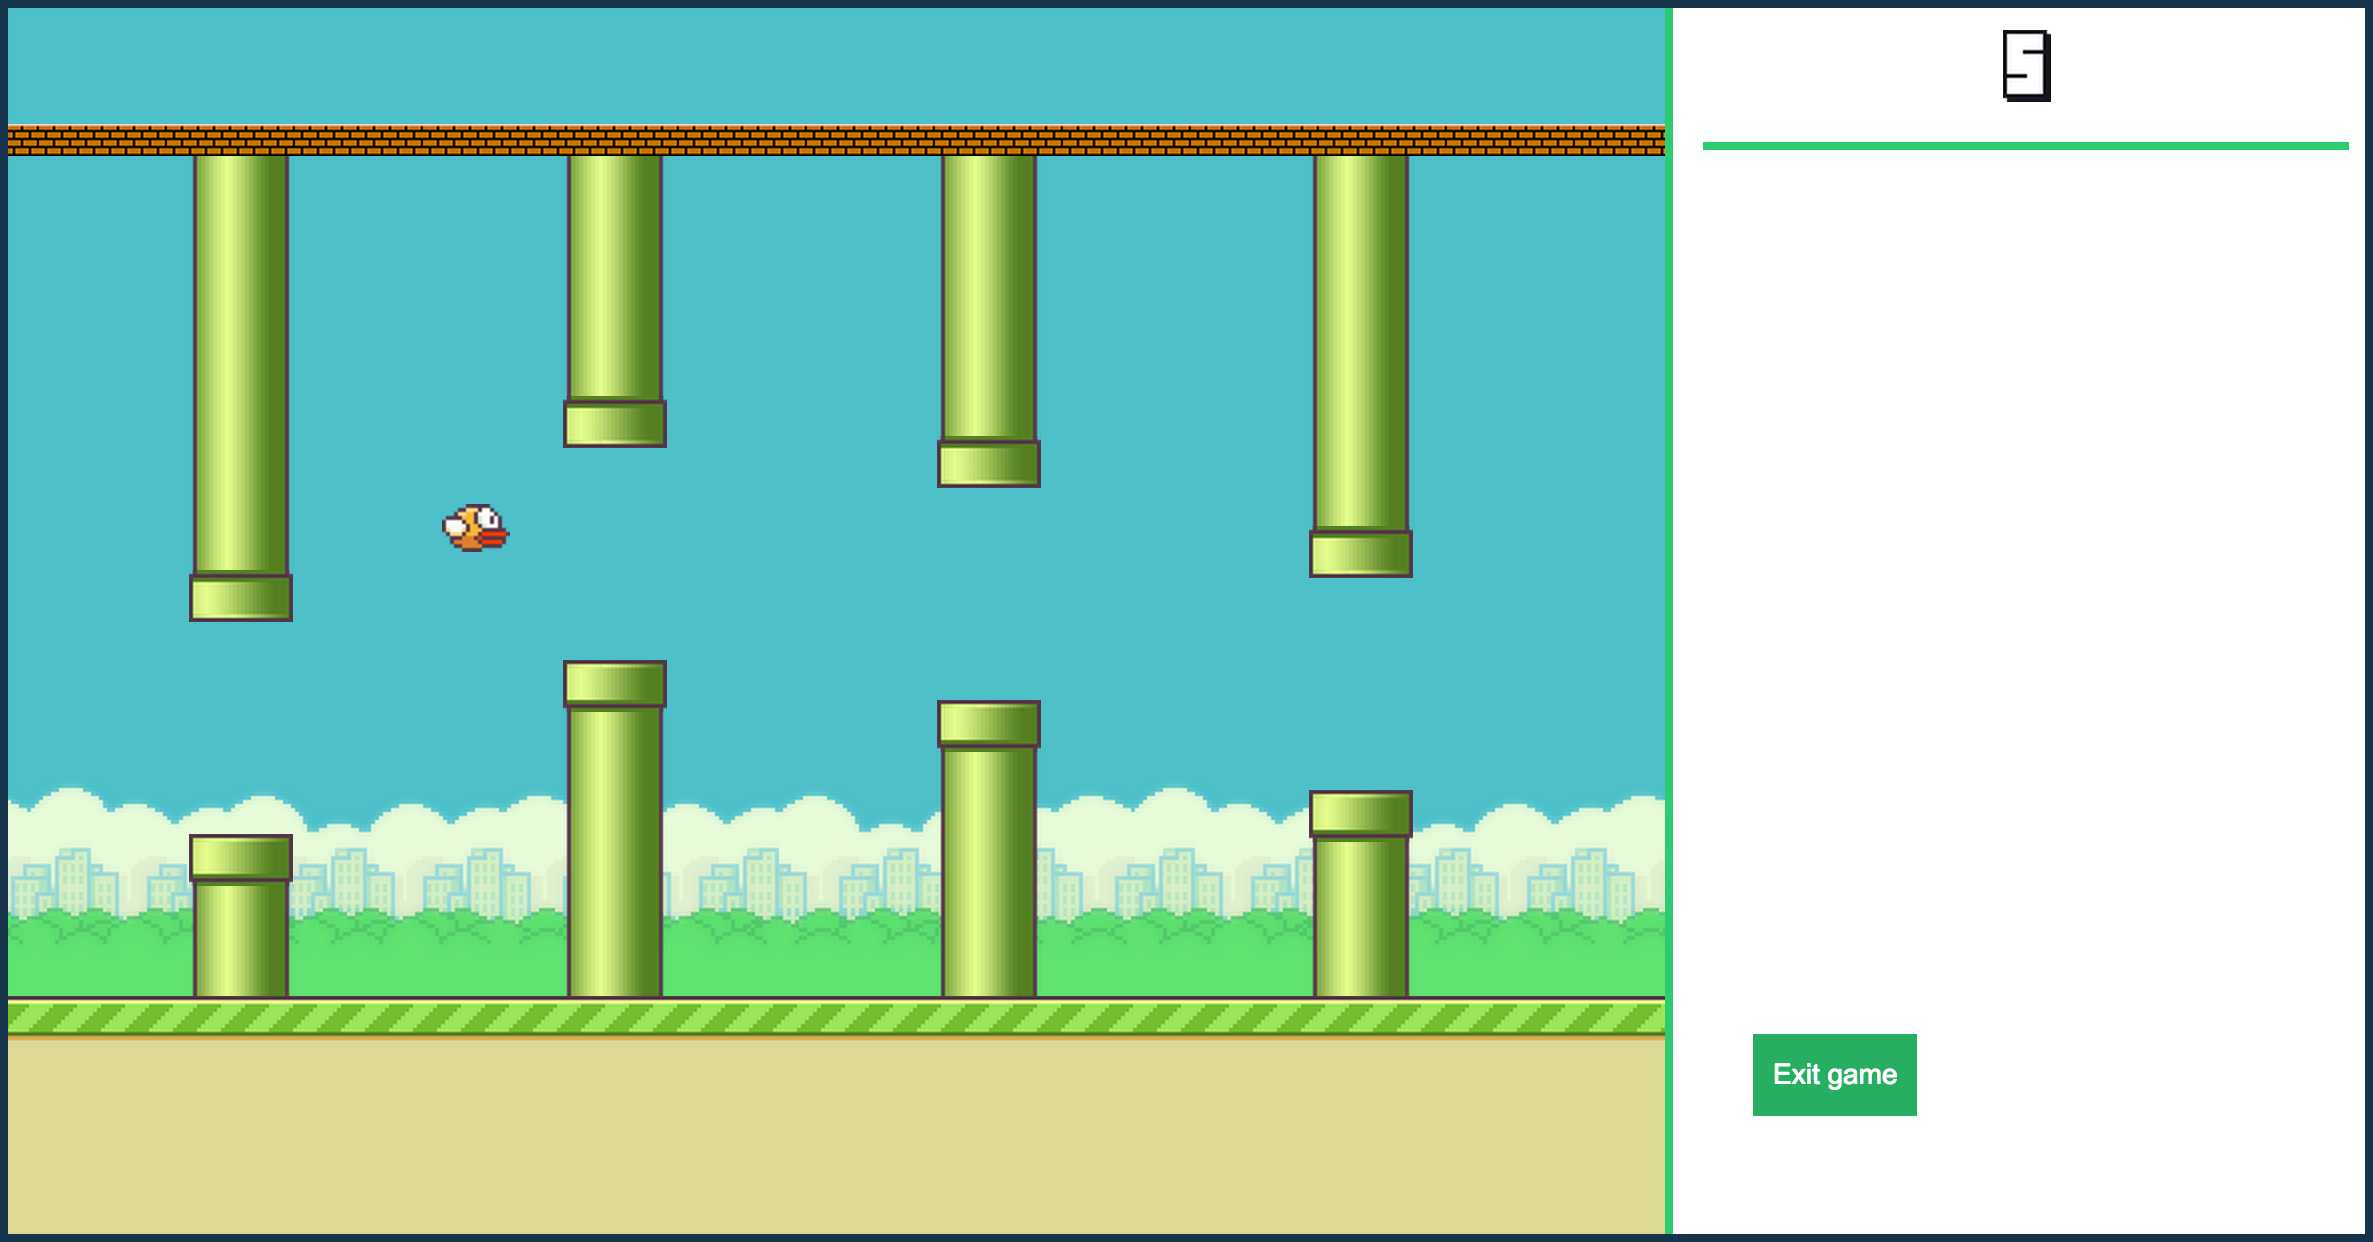
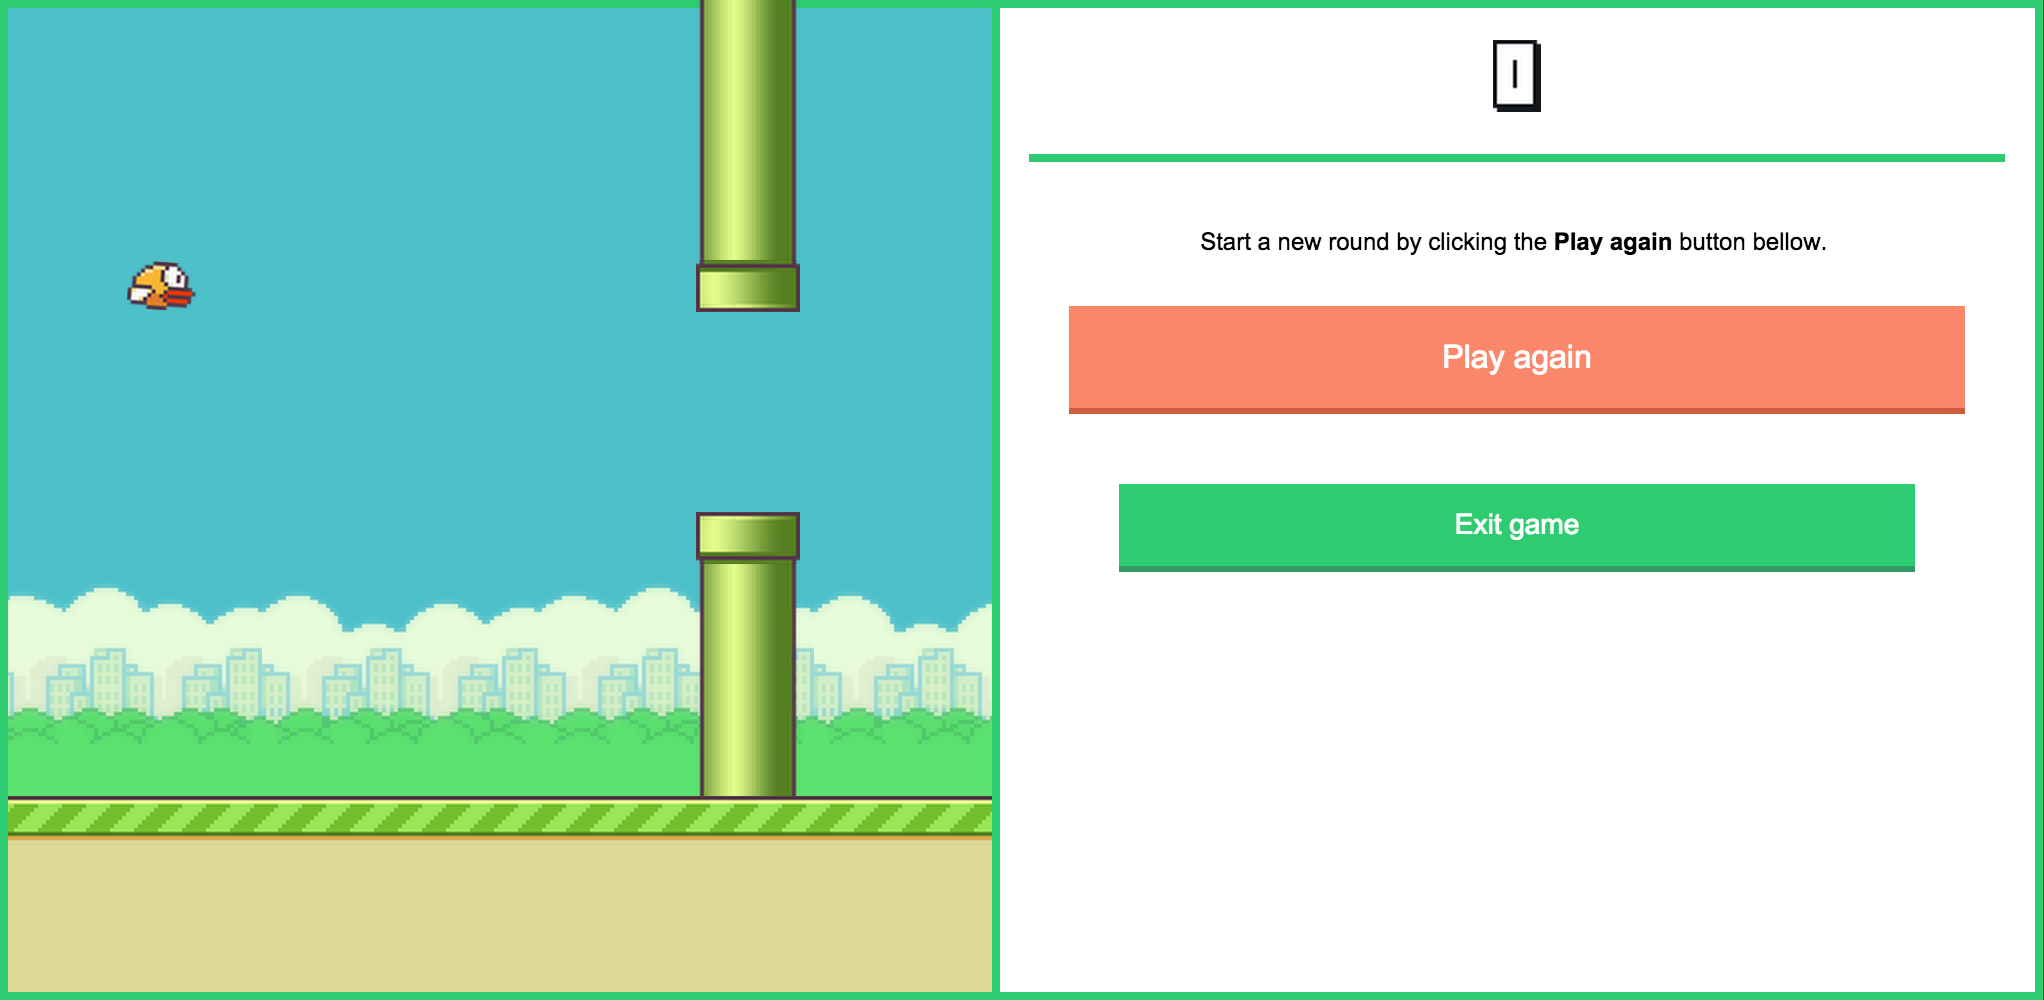
thursday work

diff --git a/tips.html b/tips.html
@@ -3,35 +3,40 @@
   <link href="css/reset.css" rel="stylesheet">
   <link href="css/main.css" rel="stylesheet">
 </head>
-
 <body id="nogame">
   <div class="container">
+    <h1>You are joining a community of Flappy Bird players! Welcome!</h1>
+    <h2>Your scores will serve as comparison for other members to improve everyone's gaming skills.</h2>
+    <hr/>
     <div class="row">
       <div class="col">
-        <h1>Welcome!</h1>
-        <p>You are joining a <b>group of Flappy Bird players</b>!</p>
-        <p>We hope you enjoy the game and have fun while guiding our friend Flappy Bird through the pipes without crashing into them or letting the Flappy Bird fall on the ground!</p>
-        <h2>Example screens</h2>
-        <img src="assets/interface1.png" width="80%">
-        <br/>
-        <img src="assets/interface2.png" width="80%">
+        <p>We hope you have fun while guiding our friend Flappy Bird through the pipes <b>without crashing into them or letting the Flappy Bird fall on the ground</b>.</p>
+        <p>You can see an example screen on the right.</p>
+        <p>In the game screen, you can see the bird and the pipes on the <b>left</b>. The score and other game controls appear on the <b>white region</b>.</p>
       </div>
       <div class="col">
-        <h1>Tips</h1>
-        <p>You can start new rounds by clicking the red "Restart game" button.</p>
-        <img src="assets/bt-restart.png" class="example">
-        <br/>
-        <p>You can play as many rounds you want and can stop at any time clicking the green "Exit game" button.</p>
-        <img src="assets/bt-exit.png" class="example">
-        <br/>
-        <p>To fly higher (i.e., flap your wings), press the spacebar.</p>
-        <img src="assets/presplash.png" class="example">
-        <br/>
-        <div style="text-align: right">
-          <a href="index.html" id="exitbt" style="cursor: pointer">Start the game!</a>
-        </div>
+        <img src="assets/interface1.png" width="95%">
       </div>
     </div>
+    <br/>
+    <hr/ style="visibility: hidden">
+    <br/>
+    <h1>Controls</h1>
+    <div class="row box">
+      <p><b>1.</b> After each round, you can start a new one by clicking the red "Play again" button.</p>
+        <img src="assets/bt-restart.png" width="35%">
+    </div>
+    <div class="row box">
+        <p><b>2.</b> You can leave the game by clicking the green "Exit game" button.</p>
+        <img src="assets/bt-exit.png" width="35%">
+    </div>
+    <div class="row box">
+        <p><b>3.</b> To fly higher (i.e., flap your wings), press the spacebar.
+          <br/>
+          Spacebar is also the key you want to press to start each round.</p>
+        <img src="assets/presplash.png">
+    </div>
+    <a href="index.html" id="exitbt" style="cursor: pointer">Start the game!</a>
   </div>
 </body>
 </html>

diff --git a/js/main.js b/js/main.js
@@ -33,13 +33,13 @@ var velocity = 20;
 var position = 100;
 var rotation = 20;
 var jump = -3.3;
-var pipeheight = 100; // not sure but I think it's variability of the gap position
-var pipewidth = 40; //pipes gap opening
+var pipeheight = 100;     // not sure but I think it's variability of the gap position
+var pipewidth = 40;       // pipes gap opening size
 var pipes = new Array();
 var replayclickable = false;
 
 //sounds
-var volume = 10;
+var volume = 2;
 var soundJump = new buzz.sound("assets/sounds/sfx_wing.ogg");
 var soundScore = new buzz.sound("assets/sounds/sfx_point.ogg");
 var soundHit = new buzz.sound("assets/sounds/sfx_hit.ogg");
@@ -99,10 +99,6 @@ function showSplash()
 {
    currentstate = states.SplashScreen;
 
-   //setting cookies
-   setCookie( "user_id", user_id, 999 );
-   setCookie( "condition", condition, 999 );
-
    //set the defaults (again)
    velocity = 0;
    position = 180;
@@ -124,7 +120,10 @@ function showSplash()
    $(".animated").css('-webkit-animation-play-state', 'running');
 
    //fade in the splash
-   $("#splash").transition({ opacity: 1 }, 2000, 'ease');
+   $("#splash").transition({ opacity: 1 }, 1000, 'ease');
+
+   //fade out exit
+   $("#forward").transition({ opacity: 0 }, 0, 'ease');
 }
 
 function startGame()
@@ -146,9 +145,9 @@ function startGame()
    }
 
    //start up our loops
-   var updaterate = 1000.0 / 60.0 ; //60 times a second
+   var updaterate = 1000.0 / 60.0 ;                   //60 times a second
    loopGameloop = setInterval(gameloop, updaterate);
-   loopPipeloop = setInterval(updatePipes, 1400);
+   loopPipeloop = setInterval(updatePipes, 1400);     //distance between pipes
 
    //jump from the start!
    playerJump();
@@ -244,7 +243,6 @@ function gameloop() {
          return;
       }
    }
-
 
    //have we passed the imminent danger?
    if(boxleft > piperight)
@@ -453,6 +451,12 @@ function showScore()
             soundSwoosh.play();
          });
     }
+
+        // show the exit button and make it clickable
+        $("#forward").transition({ opacity: 1 }, 600, 'ease');
+
+        // exit actions
+
         //show the replay button and make it clickable
         $("#replay").transition({ y: '0px', opacity: 1}, 600, 'ease');
            replayclickable = true;
@@ -516,10 +520,16 @@ $("#experience").click(function() {
 });
 
 //I'm done with the game, take me to the final survey!
+
 $("#forward").click(function() {
-   end_reflect = new Date();
-   sendscore();
-   window.location.href = "./post.html?user_id="+user_id+"&condition="+condition;
+  if(currentstate == states.ScoreScreen) {
+    end_reflect = new Date();
+    sendscore();
+    window.location.href = "./post.html?user_id="+user_id+"&condition="+condition;
+  }
+  else{
+    //nothing
+  }
 });
 
 function sendscore() {

diff --git a/index.html b/index.html
@@ -16,7 +16,7 @@
        <div class="modal-dialog">
          <div class="modal-content">
            <div class="modal-header">
-             <h4 class="modal-title" id="myModalLabel">Please select your level of Flappy Bird gaming experience:</h4>
+             <h4 class="modal-title" id="myModalLabel">Please select your general video gaming experience level:</h4>
            </div>
            <div class="modal-body">
             <form id="myForm">
@@ -26,35 +26,35 @@
                   <th>
                     <label class="radio-inline text-center">
                       <input type="radio" name="inlineRadioOptions" id="inlineRadio1" value="1">
-                      <br/>Zero experience
+                      <br/>I never play video games
                     </label>
                   </th>
                   <th>
                     <label class="radio-inline text-center">
                       <input type="radio" name="inlineRadioOptions" id="inlineRadio2" value="2">
                       <br/>
-                      Some experience
+                      I rarely play video games
                     </label>
                   </th>
                   <th>
                     <label class="radio-inline text-center">
                       <input type="radio" name="inlineRadioOptions" id="inlineRadio3" value="3">
                       <br/>
-                      Moderate experience
+                      I play video games sometimes
                     </label>
                   </th>
                   <th>
                     <label class="radio-inline text-center">
                       <input type="radio" name="inlineRadioOptions" id="inlineRadio4" value="4">
                       <br/>
-                      More than average experience
+                      I play video games often
                     </label>
                   </th>
                   <th>
                     <label class="radio-inline text-center">
                       <input type="radio" name="inlineRadioOptions" id="inlineRadio5" value="5">
                       <br/>
-                      Plenty of experience
+                      I play video games all of the time
                     </label>
                   </th>
                 </tr>
@@ -86,10 +86,10 @@
         <div id="bigscore"></div>
         <hr>
         <div id="replay">
-          Start a new round by clicking the <b>Restart game</b> button bellow.
+          Start a new round by clicking the <b>Play again</b> button bellow.
           <br/>
           <br/>
-          <a href="#" id="restartbt">Restart game</a>
+          <a href="#" id="restartbt">Play again</a>
         </div>
         <div id="forward">
            <a id="exitbt">Exit game</a>

diff --git a/info.html b/info.html
@@ -10,11 +10,11 @@
     Flappy bird study information form
   </h1>
   <p>
-    Welcome to Flappy Bird casual game experiment. Participation in the study typically takes 20 minutes and is strictly anonymous. Participants are requested to play several rounds of the game, as much as they want.
+    Welcome to the Flappy Bird experiment. Participants are requested to play several rounds of a game, as much as they want.
   </p>
   <br/>
   <p>
-    After that, participants answer a series of questions about their personal beliefs in executing tasks and how they compare to others, along with demographics and personality surveys. All responses are confidential, and in no case will responses from individual participants be identified. All data will be pooled and published in aggregate form only. The study involves no more than minimal risk to participants (i.e., the level of risk encountered in daily life). Many individuals find participation in this study enjoyable, and no adverse reactions have been reported. Participation is voluntary, refusal to take part in the study involves no penalty or loss of benefits to which participants are otherwise entitled.
+    At the end of the game, participants will be asked to answer a few questions about their experiences with the game and about themselves. All responses are confidential, and in no case will responses from individual participants be identified. All data will be pooled and published in aggregate form only. The study involves no more than minimal risk to participants (i.e., the level of risk encountered in daily life). Participation is voluntary, refusal to take part in the study involves no penalty or loss of benefits to which participants are otherwise entitled.
   </p>
   <br/>
   <p>

diff --git a/css/main.css b/css/main.css
@@ -134,11 +134,14 @@ body
 h1{
   font-size: 24px;
   padding-bottom: 10px;
+  line-height:32px;
 }
 
 h2{
-  font-size: 18px;
+  font-size: 21px;
   padding-bottom: 10px;
+  line-height:32px;
+  color:#18b259;
 }
 
 p
@@ -150,25 +153,34 @@ p
 #nogame
 {
   background-color: #ecf0f1;
+  overflow: auto;
 }
 
 .row
 {
-  margin-right: -15px;
-margin-left: -15px;
-display: block;
+  display: block;
+  padding: 30px 0 30px 0;
+  margin-top: 10px;
 }
 
+.box
+{
+  background-color: #dadada;
+  border: 1px solid #b5b5b5;
+  padding: 15px;
+}
 .col
 {
   width: 50%;
   float: left;
+  position: relative;
 }
 
 .container
 {
-padding:40px;
-width: 800px;
+  padding:40px;
+  width: 800px;
+  margin: 0 auto;
 }
 
 #gamecontainer
@@ -213,6 +225,8 @@ width: 800px;
   border: 0px;
   text-decoration:none;
   border-bottom: 3px solid #d15b3f;
+  width: 300px;
+  margin: 0 auto;
 }
 
 #restartbt:hover {
@@ -222,7 +236,8 @@ width: 800px;
 
 #forward
 {
-  margin: 20px;
+  margin: 20px auto;
+  width: 300px;
 }
 
 #exitbt
